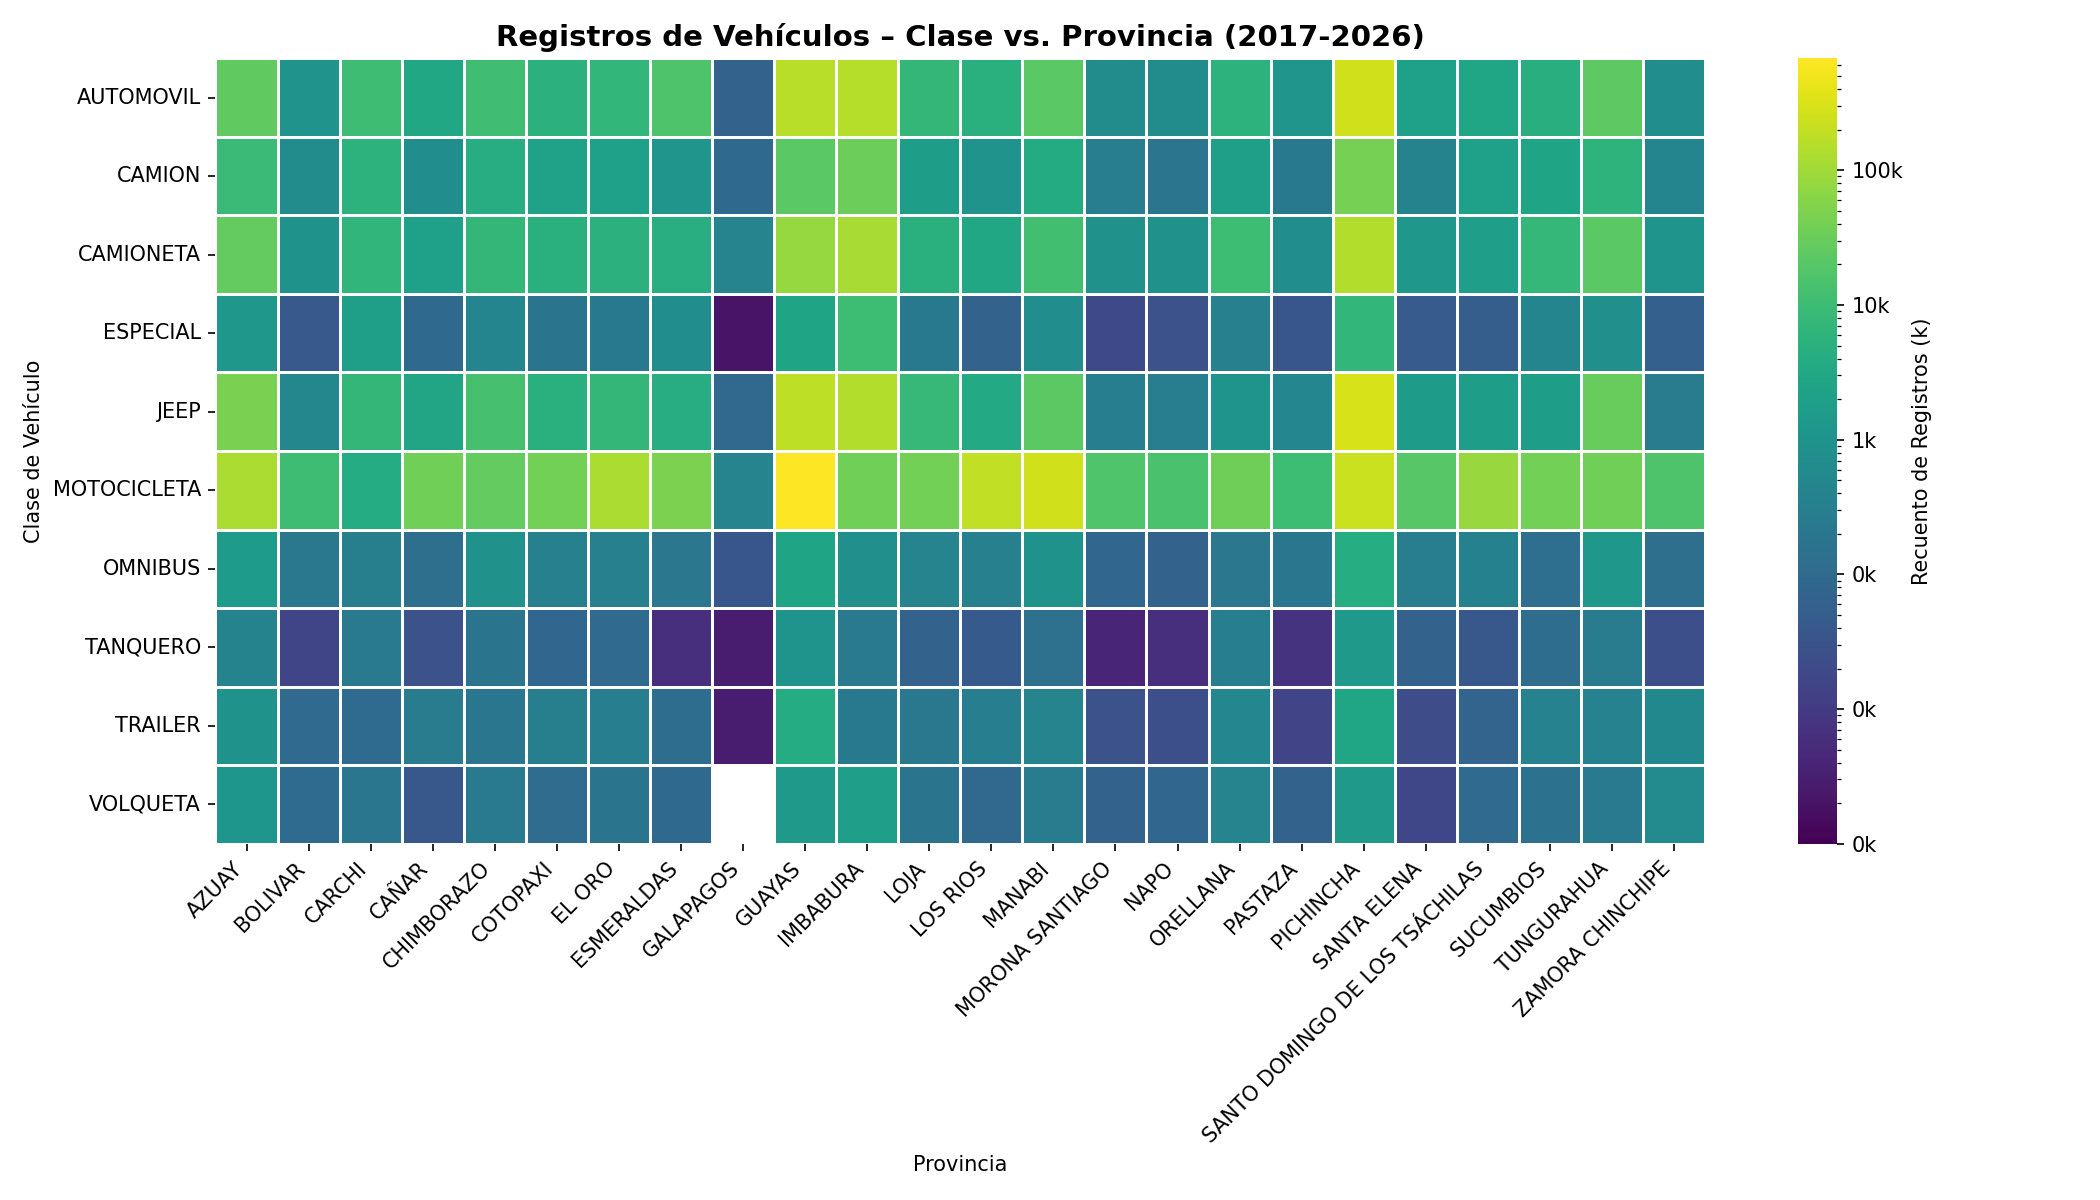
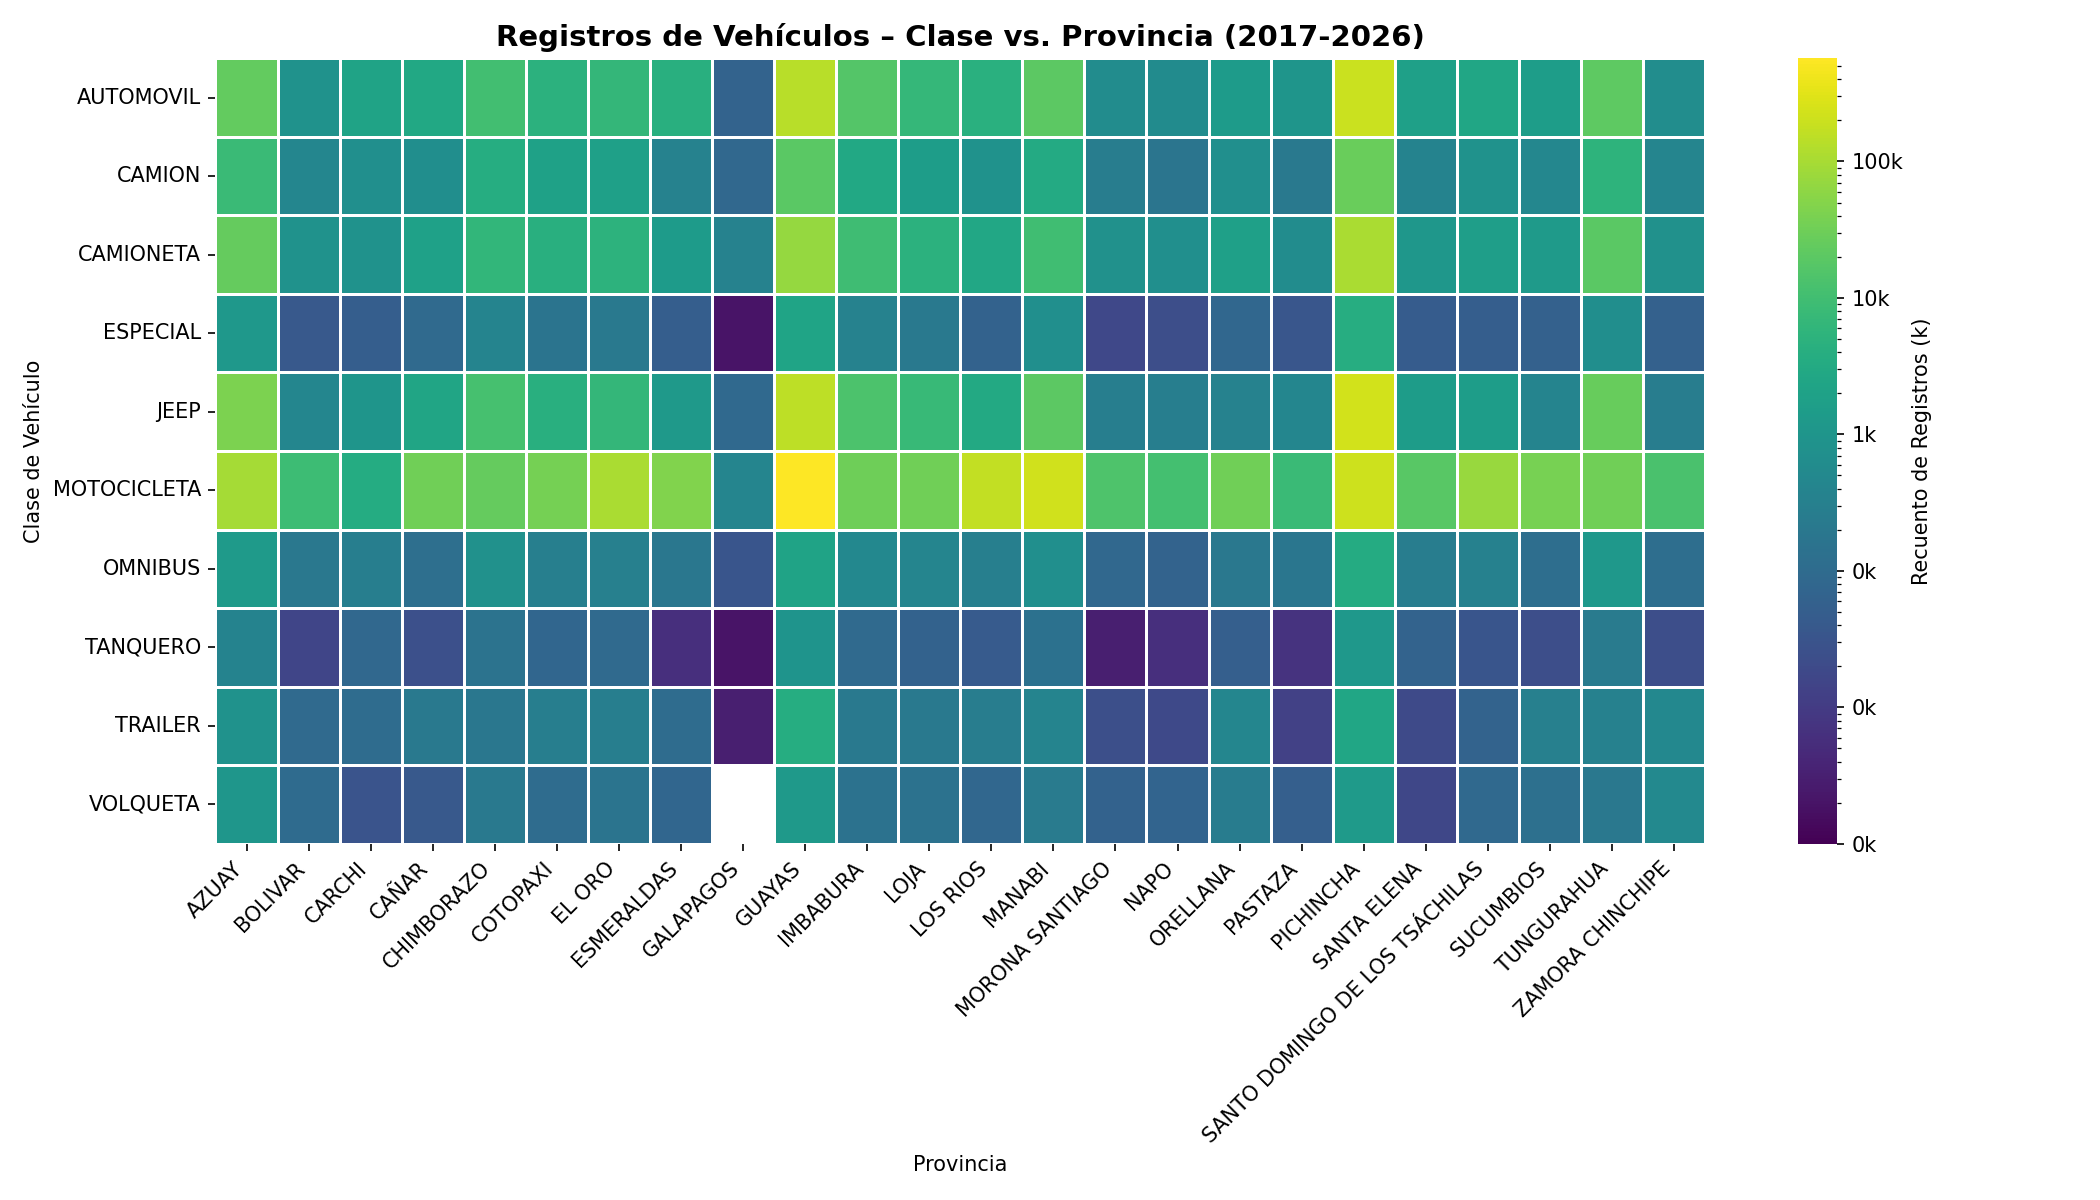
Add deduplication summary, move cleaned CSVs, update config to use data/clean

diff --git a/reports/data_deduplication_summary.md b/reports/data_deduplication_summary.md
@@ -1,0 +1,36 @@
+# Data Deduplication Summary
+
+This document records the impact of removing exact duplicate rows from the **SRI New Vehicles** dataset (2017‑2026).
+
+## Duplicate statistics per year
+
+| Year | Total rows (raw) | Duplicate rows | Unique rows (after deduplication) |
+|------|------------------|----------------|-----------------------------------|
+| 2017 | 275,320 | 100,467 | 174,853 |
+| 2018 | 366,696 | 21,350  | 345,346 |
+| 2019 | 366,354 | 0       | 366,354 |
+| 2020 | 322,187 | 100,947 | 221,240 |
+| 2021 | 661,062 | 375,813 | 285,249 |
+| 2022 | 629,524 | 309,334 | 320,190 |
+| 2023 | 555,126 | 230,378 | 324,748 |
+| 2024 | 460,550 | 140,231 | 320,319 |
+| 2025 | 482,754 | 80,399  | 402,355 |
+| 2026 | 186,953 | 39,334  | 147,619 |
+
+**Overall impact**
+- **Total raw records**: 4,306,526
+- **Total duplicate rows**: 1,262,652 (≈ 29 % of the dataset)
+- **Total unique records after deduplication**: 3,043,874
+
+## Why deduplication matters
+
+- **Model bias reduction**: Duplicate observations can overweight certain vehicle configurations, skewing model learning.
+- **Performance gains**: Smaller data size speeds up loading, preprocessing, and training pipelines.
+- **Accurate reporting**: Statistics such as registration counts per province or class become trustworthy only after duplicates are removed.
+
+## Next steps
+1. Replace the raw CSV files with their cleaned counterparts stored under `data/clean/` (generated by `df.drop_duplicates()`).
+2. Re‑run the completeness and schema audits to verify the remaining data quality.
+3. Update downstream visualisations (class‑location matrix, temporal trends) to use the cleaned datasets.
+
+*Document generated on 2026‑06‑07.*